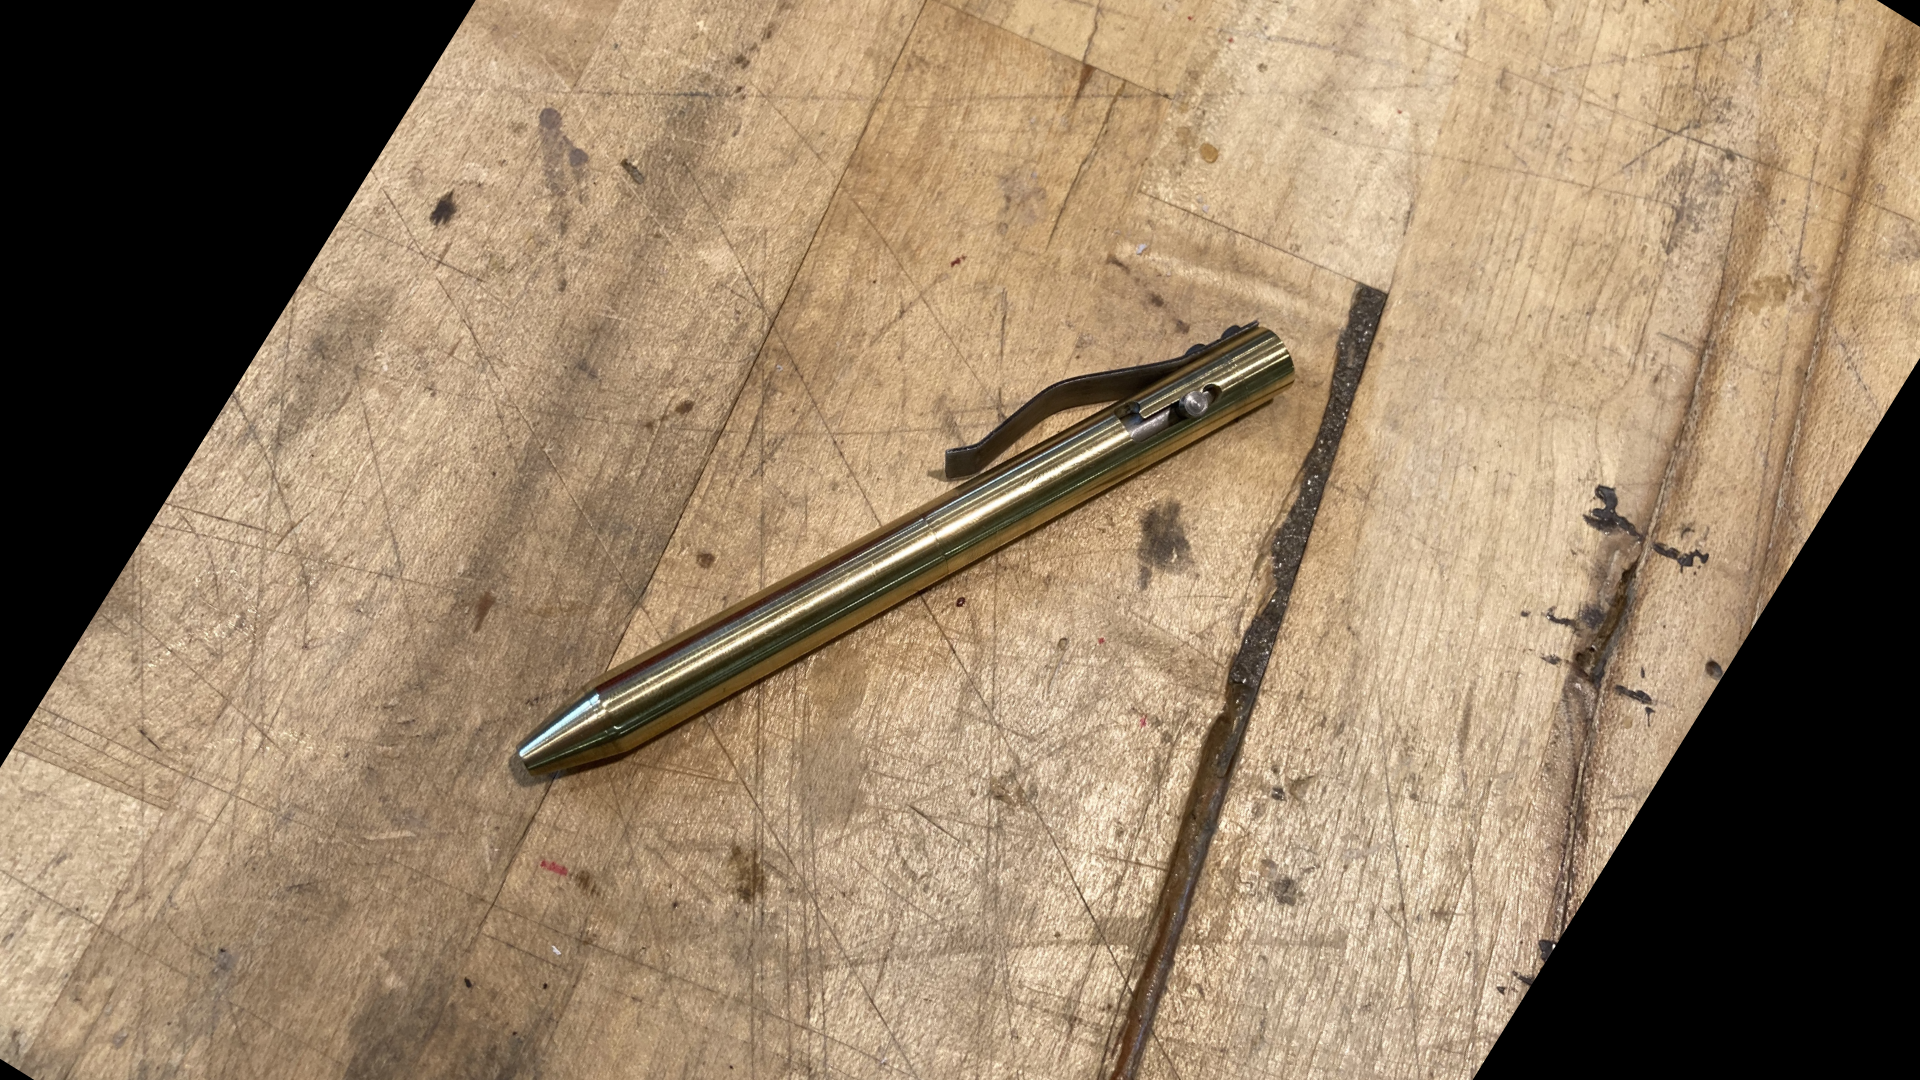
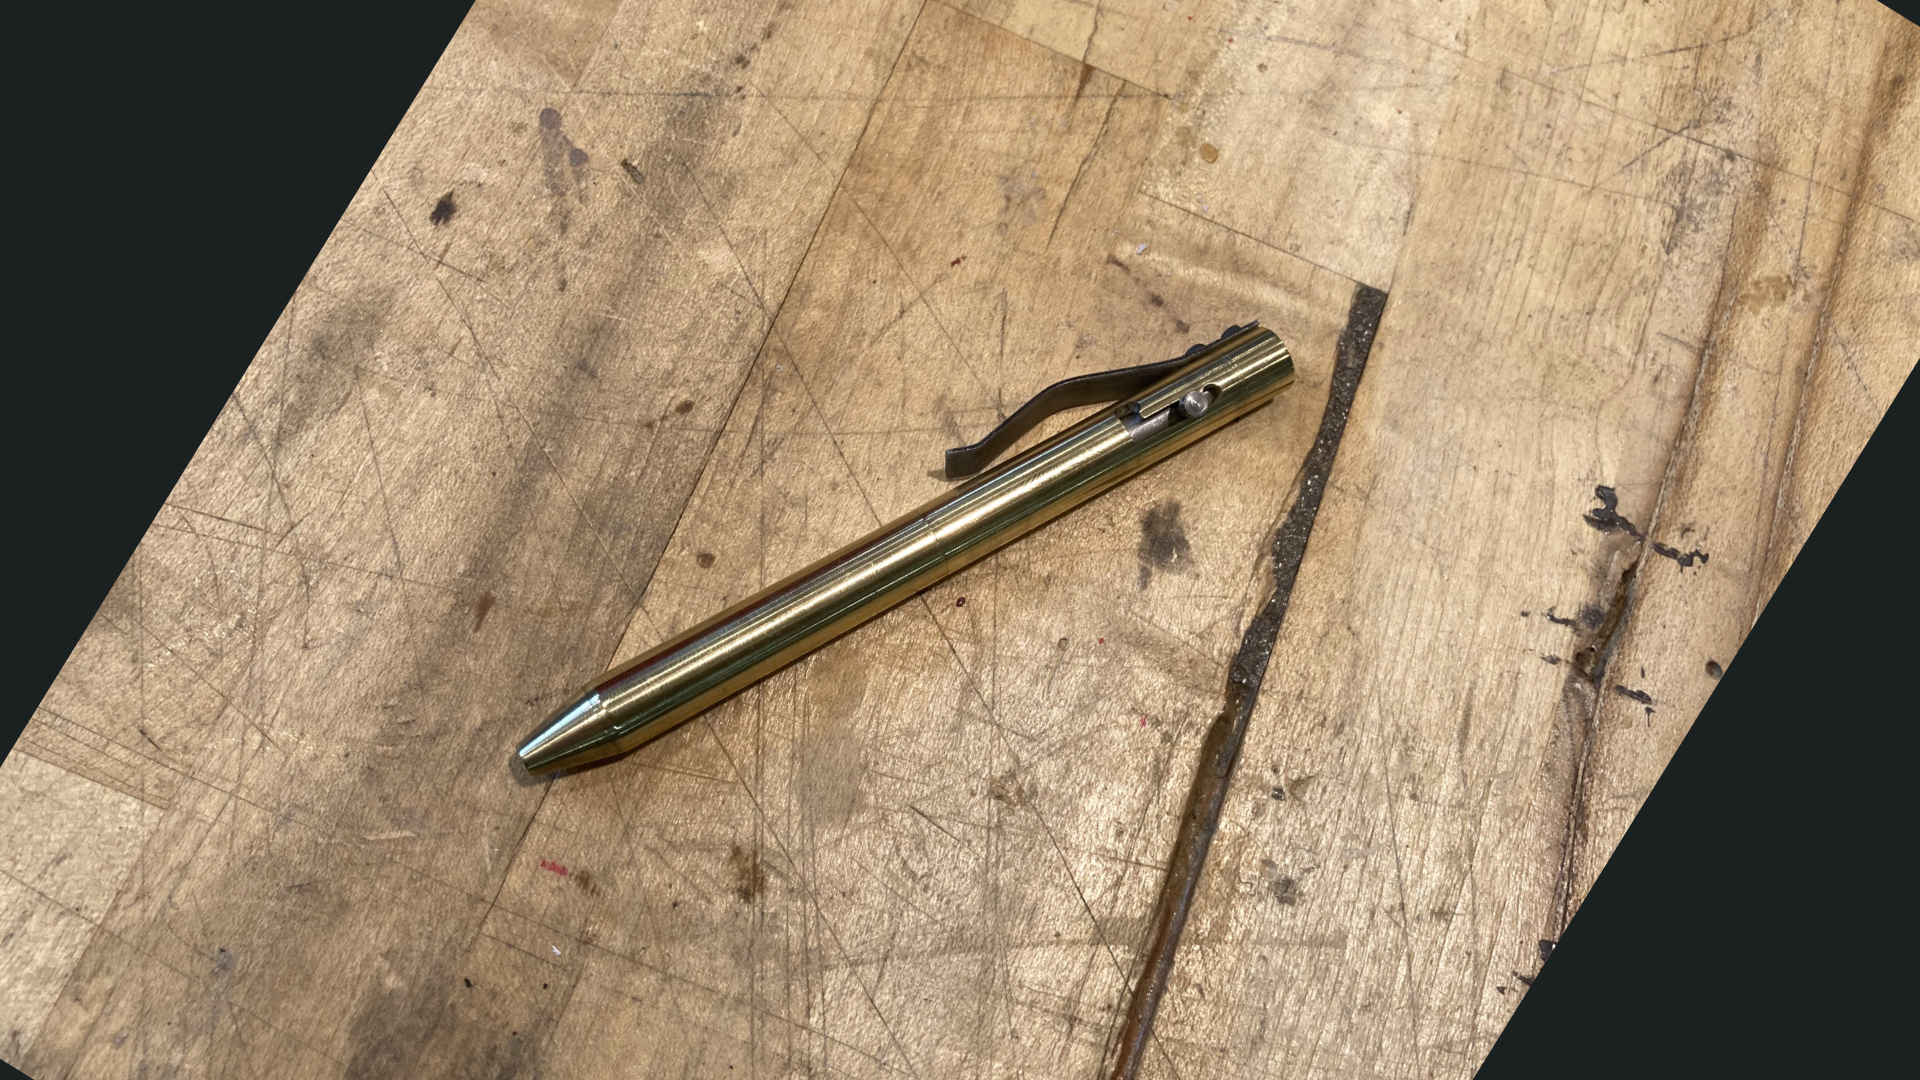
Paralax

diff --git a/index.html b/index.html
@@ -797,12 +797,12 @@
             <!-- End Navigation panel -->
 
             <!-- Divider 1-->
-            <section class="home-section bg-scroll fixed-height-extra-small bg-dark">                
+            <section class="home-section bg-scroll fixed-height-extra-small bg-dark-boom ">                
             </section>
             <!-- End Divider -->
 
             <!-- Section  (Project Showcase 1) -->
-            <section class="home-section bg-scroll fixed-height-large" data-background="images/full-width-images/VertTable2Extended.png">
+            <section class="home-section bg-scroll fixed-height-large parallax-2 bg-dark-boom" data-background="images/full-width-images/VertTable2Extended.png">
                 <div class="js-height-parent container relative">
 
                     
@@ -814,7 +814,7 @@
                             </h2>
                              
                             <div>
-                               <a href="#" class="boom btn btn-mod btn-border-g btn-medium btn-round white">View Project</a>
+                               <a href="#" class="boom btn btn-mod btn-border-b btn-medium btn-round brass">View Project</a>
                             </div>
                             
                         </div>
@@ -826,7 +826,7 @@
             <!-- End Section -->
 
             <!-- Divider 2-->
-            <section class="home-section bg-scroll fixed-height-extra-small bg-dark">                
+            <section class="home-section bg-scroll fixed-height-extra-small bg-dark-boom">                
             </section>
             <!-- End Divider -->
 
@@ -854,13 +854,13 @@
             <!-- End Section -->
             
             <!-- Divider 3-->
-            <section class="home-section bg-scroll fixed-height-extra-small bg-dark">                
+            <section class="home-section bg-scroll fixed-height-extra-small bg-dark-boom">                
             </section>
             <!-- End Divider -->
 
 
             <!-- Section -->
-            <section class="page-section">
+            <section class="page-section bg-light-boom">
                 <div class="container relative">
                     
 

diff --git a/css/style.css b/css/style.css
@@ -112,8 +112,10 @@ Section Text:       15px/1.7 "Open Sans", arial, sans-serif;
 .relative{position:relative;}
 .hidden{display:none;}
 .inline-block{display:inline-block;}
-.white{ color: #fff !important; }
-.black{ color: #111 !important; }
+.white{ color: #fff !important; } /* Will probably want to change these at some point to my white/black */
+.black{ color: #111 !important; } 
+.brass{ color: #D2BF55 !important; } 
+
 .color{ color: #e41919 !important; }
 .glass{ opacity: .5; };
 .image-fullwidth img{
@@ -1492,7 +1494,7 @@ a.logo:hover{
 	left: 0;
 	text-align: left;
 	background: rgba(255,255,255, .97);
-	
+
 	-webkit-box-shadow: 0 1px 0 rgba(0,0,0,.05);
 	-moz-box-shadow: 0 1px 0 rgba(0,0,0,.05);
 	box-shadow:  0 1px 0 rgba(0,0,0,.05);
@@ -1873,8 +1875,10 @@ a.logo:hover{
  */
 
 .main-nav.dark{
-	background-color: rgba(10,10,10, .95);
-    
+	background-color: rgba(27,32,33,0.97);
+    	/*
+ * NOTE background for this part *was* rgba(10,10,10, .95), I've changed it to my black which is (27,32,33,0.95)
+ */
 	-webkit-box-shadow: none;
 	-moz-box-shadow: none;
 	box-shadow:  none;
@@ -2412,6 +2416,12 @@ a.logo:hover{
 .bg-gray-lighter{
 	background-color: #f8f8f8;
 }
+.bg-dark-boom{
+	background-color: #1B2021;
+}
+.bg-light-boom{
+	background-color: #D8DBE2;
+}
 .bg-dark,
 .bg-dark-lighter,
 .bg-dark-alfa-30,
@@ -2793,7 +2803,7 @@ a.logo:hover{
     min-height: 600px;
 }
 .fixed-height-extra-small{
-    min-height: 50px;
+    min-height: 30px;
 }
 
 
